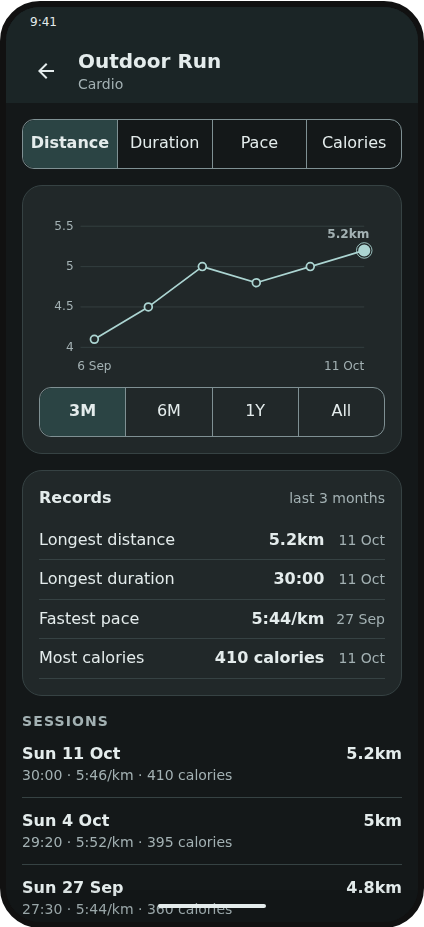
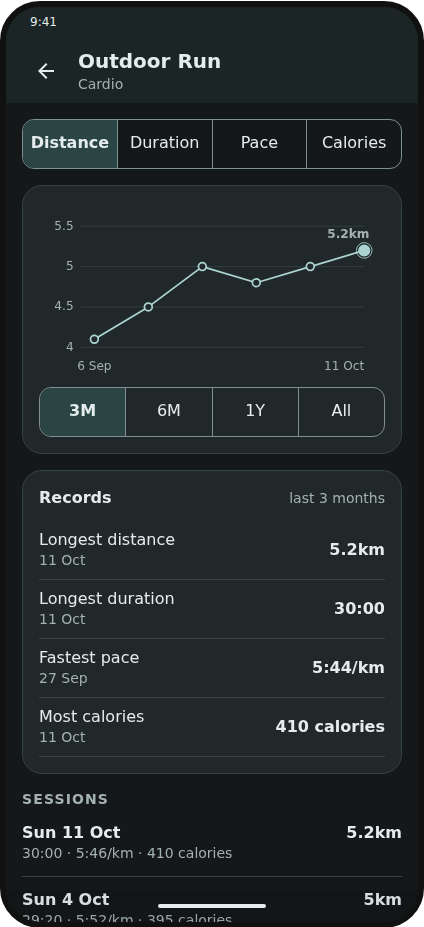
fix(ui): fit screen stories at the narrowest phone

diff --git a/src/WorkoutLog.UI/Components/Lists/RecordsCard.razor.css b/src/WorkoutLog.UI/Components/Lists/RecordsCard.razor.css
@@ -1,7 +1,7 @@
-/* One grid for every row, so values and dates line up. */
+/* One grid for every row, so values line up; the date sits under the label so a long label keeps its line. */
 .rows {
     display: grid;
-    grid-template-columns: 1fr auto auto;
+    grid-template-columns: 1fr auto;
     column-gap: var(--space-3);
     margin: 0;
 }
@@ -10,7 +10,8 @@
     display: grid;
     grid-column: 1 / -1;
     grid-template-columns: subgrid;
-    align-items: baseline;
+    grid-template-areas: "label value" "date value";
+    align-items: center;
     padding: var(--space-2) 0;
     border-bottom: var(--border-width) solid var(--color-border);
 }
@@ -21,14 +22,19 @@
     margin: 0;
 }
 
+.label {
+    grid-area: label;
+}
+
 .value {
+    grid-area: value;
     font-weight: var(--font-weight-bold);
     font-variant-numeric: tabular-nums;
     text-align: right;
 }
 
 .date {
+    grid-area: date;
     color: var(--color-text-muted);
     font-size: var(--font-size-sm);
-    text-align: right;
 }

diff --git a/src/WorkoutLog.UI/Screens/ImportReviewView.razor.css b/src/WorkoutLog.UI/Screens/ImportReviewView.razor.css
@@ -23,3 +23,14 @@
     grid-template-columns: 1fr 1fr;
     gap: var(--space-3);
 }
+
+/* Two buttons side by side, or one above the other when the longer "Choose another file" doesn't fit beside Cancel. */
+.actions {
+    display: flex;
+    flex: 1;
+    gap: var(--space-3);
+}
+
+.stacked {
+    flex-direction: column;
+}

diff --git a/src/WorkoutLog.UI/Components/Workout/SetGrid.cs b/src/WorkoutLog.UI/Components/Workout/SetGrid.cs
@@ -17,12 +17,12 @@ internal static class SetGrid
     /// <summary>True when a header label has no room for its unit: the Last column or a duration beside another field leaves a field one narrow column at the narrowest card. The field's own label still names the unit.</summary>
     public static bool ShortHeaders(IReadOnlyList<FieldSpec> fields, bool hasLast) => hasLast || LastBelow(fields);
 
-    /// <summary>CSS grid-template-columns: set number, the Last column when <see cref="LastColumn"/>, one column per field, remove button.</summary>
+    /// <summary>CSS grid-template-columns: set number, the Last column when <see cref="LastColumn"/> (the kit's aside width plus a gap, so 25kg×10 fits at the narrowest card), one column per field, remove button.</summary>
     public static string Columns(IReadOnlyList<FieldSpec> fields, bool hasLast)
     {
         var lastColumn = LastColumn(fields, hasLast);
         var fieldColumns = fields.Select(_ => "minmax(0, 1fr)");
-        var last = lastColumn ? "var(--entry-grid-aside-width) " : null;
+        var last = lastColumn ? "calc(var(--entry-grid-aside-width) + var(--space-2)) " : null;
         return $"var(--entry-grid-index-width) {last}{string.Join(' ', fieldColumns)} var(--touch-target)";
     }
 }

diff --git a/tests/WorkoutLog.UI.Tests/Components/Workout/SetGridTests.cs b/tests/WorkoutLog.UI.Tests/Components/Workout/SetGridTests.cs
@@ -50,8 +50,8 @@ public class SetGridTests
     {
         Assert.Multiple(() =>
         {
-            Assert.That(SetGrid.Columns([Weight, Reps], true), Is.EqualTo("var(--entry-grid-index-width) var(--entry-grid-aside-width) minmax(0, 1fr) minmax(0, 1fr) var(--touch-target)"));
-            Assert.That(SetGrid.Columns([Reps], true), Is.EqualTo("var(--entry-grid-index-width) var(--entry-grid-aside-width) minmax(0, 1fr) var(--touch-target)"));
+            Assert.That(SetGrid.Columns([Weight, Reps], true), Is.EqualTo("var(--entry-grid-index-width) calc(var(--entry-grid-aside-width) + var(--space-2)) minmax(0, 1fr) minmax(0, 1fr) var(--touch-target)"));
+            Assert.That(SetGrid.Columns([Reps], true), Is.EqualTo("var(--entry-grid-index-width) calc(var(--entry-grid-aside-width) + var(--space-2)) minmax(0, 1fr) var(--touch-target)"));
         });
     }
 

diff --git a/tests/WorkoutLog.UI.Tests/Components/Workout/ExerciseCardTests.cs b/tests/WorkoutLog.UI.Tests/Components/Workout/ExerciseCardTests.cs
@@ -1445,7 +1445,7 @@ public class ExerciseCardTests : ComponentTestBase
             Assert.That(LastColumn(cut), Is.EqualTo(new[] { "Last time 62.5×6" }));
             Assert.That(cut.Find("[data-testid=exercise-1-set-3-last]").TextContent, Is.EqualTo("Last time 62.5×6"));
             Assert.That(cut.Find(".set-header").GetAttribute("style"),
-                Is.EqualTo("grid-template-columns: var(--entry-grid-index-width) var(--entry-grid-aside-width) minmax(0, 1fr) minmax(0, 1fr) var(--touch-target)"));
+                Is.EqualTo("grid-template-columns: var(--entry-grid-index-width) calc(var(--entry-grid-aside-width) + var(--space-2)) minmax(0, 1fr) minmax(0, 1fr) var(--touch-target)"));
         });
     }
 

diff --git a/tests/WorkoutLog.UI.Tests/Components/Workout/SetRowTests.cs b/tests/WorkoutLog.UI.Tests/Components/Workout/SetRowTests.cs
@@ -71,7 +71,7 @@ public class SetRowTests : ComponentTestBase
             Assert.That(cut.Find("[data-testid=set-1-last]").TextContent, Is.EqualTo($"Last time {last}"));
             Assert.That(cut.Find(".last .visually-hidden").TextContent, Is.EqualTo("Last time "));
             Assert.That(cut.Find(".set-row").GetAttribute("style"),
-                Is.EqualTo("grid-template-columns: var(--entry-grid-index-width) var(--entry-grid-aside-width) minmax(0, 1fr) minmax(0, 1fr) var(--touch-target)"));
+                Is.EqualTo("grid-template-columns: var(--entry-grid-index-width) calc(var(--entry-grid-aside-width) + var(--space-2)) minmax(0, 1fr) minmax(0, 1fr) var(--touch-target)"));
         });
     }
 

diff --git a/src/WorkoutLog.UI.Stories/Stories/Components/Workout/Workout.md b/src/WorkoutLog.UI.Stories/Stories/Components/Workout/Workout.md
@@ -33,7 +33,7 @@ The note an exercise had in the last saved workout with it: one muted line, the 
 
 ## `SetRow`
 One set on one row: number, a box per field, remove (`IconButton` Close, muted, small). Column headers come from the card. With `IsRecord`, a `RecordBadge` shows under the row, in line with the fields.
-- With `Last`, a muted small text after the number in a Last column the width of a field box: last time's set as the Exercise page writes it, e.g. *60×8*, *25kg×10*; *—* when last time had no set with that number (the caller passes it). Read out as "Last time 60×8".
+- With `Last`, a muted small text after the number in a Last column a little wider than the kit's aside width: last time's set as the Exercise page writes it, e.g. *60×8*, *25kg×10*; *—* when last time had no set with that number (the caller passes it). Read out as "Last time 60×8".
 - With `Last` on a row with a duration (a hold), no column: a muted small full-width line under the row, indented past the number: *Last time 1:30*, or *Last time 12.5kg · 1:30* when a weight was logged. The row's boxes keep the width they have without last time. The caller passes null for a set number last time didn't have, so no line shows.
 - `data-testid`: `TestId`, `{TestId}-last`, `{TestId}-{field}`, `{TestId}-remove`, `{TestId}-record`, `{TestId}-error`.
 
